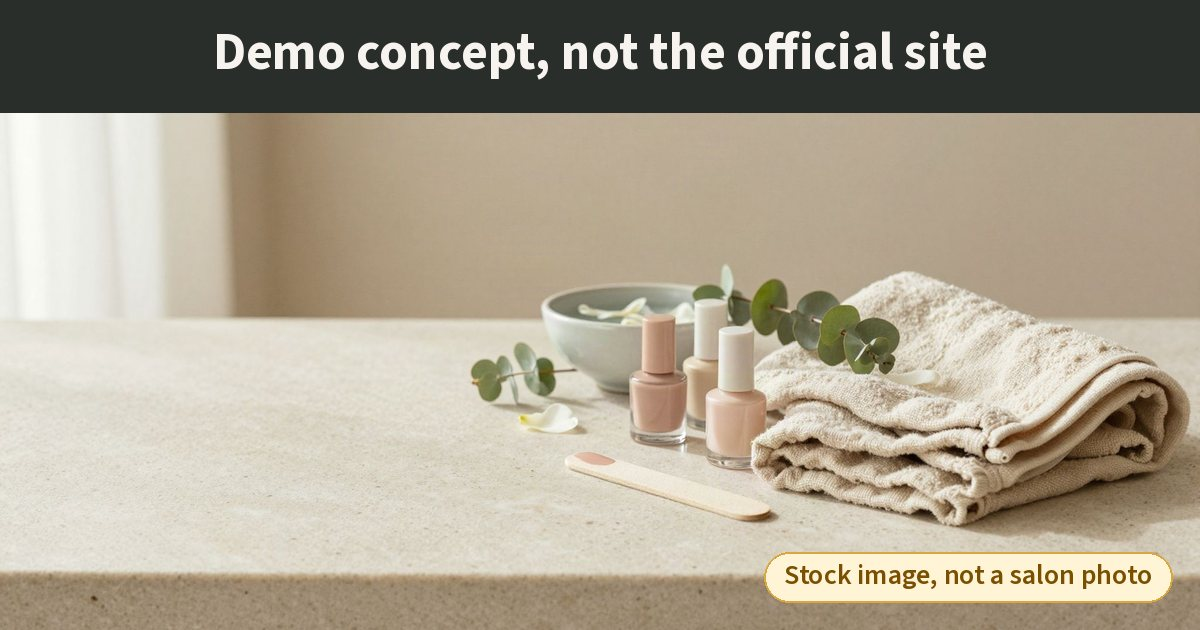
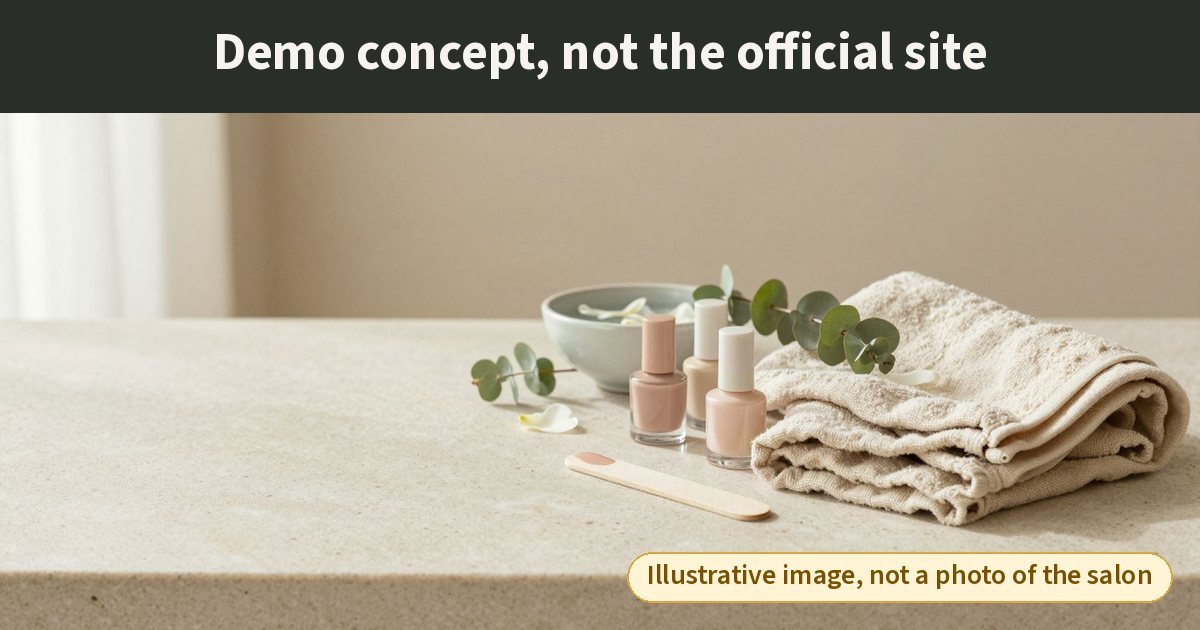
Label demo images as illustrative

Changed region(s): [[0.5242, 0.8746, 0.9558, 0.9651]]

diff --git a/about.html b/about.html
@@ -15,17 +15,17 @@
   <meta property="og:image:type" content="image/jpeg">
   <meta property="og:image:width" content="1200">
   <meta property="og:image:height" content="630">
-  <meta property="og:image:alt" content="Demo concept, not the official site. Nude nail polish bottles, eucalyptus and a soft folded towel on a stone counter (stock image, not a salon photo)">
+  <meta property="og:image:alt" content="Demo concept, not the official site. Nude nail polish bottles, eucalyptus and a soft folded towel on a stone counter (illustrative image, not a photo of the salon)">
   <meta name="twitter:card" content="summary_large_image">
   <meta name="twitter:title" content="About | 9 Natural Nails &amp; Spa Mississauga (demo concept)">
   <meta name="twitter:description" content="Demo concept website for 9 Natural Nails &amp; Spa, a nail salon and spa in Creditview, Mississauga — not the official site. About the salon.">
   <meta name="twitter:image" content="https://mikelagumbay22.github.io/9-natural-nails-demo/img/og-image.jpg">
-  <meta name="twitter:image:alt" content="Demo concept, not the official site. Nude nail polish bottles, eucalyptus and a soft folded towel on a stone counter (stock image, not a salon photo)">
+  <meta name="twitter:image:alt" content="Demo concept, not the official site. Nude nail polish bottles, eucalyptus and a soft folded towel on a stone counter (illustrative image, not a photo of the salon)">
   <meta name="robots" content="noindex, nofollow">
   <meta name="theme-color" content="#F7F3EE">
   <link rel="preload" href="fonts/cormorant-normal-500-600-latin.woff2" as="font" type="font/woff2" crossorigin>
   <link rel="preload" href="fonts/jost-normal-400-500-latin.woff2" as="font" type="font/woff2" crossorigin>
-  <link rel="stylesheet" href="css/site.css?v=c59a44cd">
+  <link rel="stylesheet" href="css/site.css?v=3cecc770">
   <link rel="icon" type="image/svg+xml" href="img/logo-existing-refresh-mark.svg">
   <link rel="icon" href="img/favicon-existing-refresh.ico" sizes="any">
   <link rel="apple-touch-icon" href="img/apple-touch-icon-existing-refresh.png">
@@ -79,7 +79,7 @@
 <section class="page-hero section" aria-labelledby="about-title">
   <div class="container about-grid">
     <div class="about-media">
-      <div class="media "><span class="ph-badge stock-badge">Stock image · not a salon photo</span>
+      <div class="media "><span class="ph-badge image-badge">Illustrative image, not a photo of the salon</span>
   <img src="img/interior-800.webp" srcset="img/interior-480.webp 480w, img/interior-800.webp 800w, img/interior-1200.webp 1200w, img/interior-1600.webp 1600w" sizes="(min-width: 900px) 540px, 92vw" width="1600" height="1200" alt="Calm, minimalist manicure station with a sage accent wall and shelves of nail polish" fetchpriority="high" decoding="async">
 </div>
     </div>
@@ -98,13 +98,13 @@
   <div class="container">
     <div class="section-head section-head--center">
       <p class="eyebrow">A calm space</p>
-      <h2 id="about-strip-title">Natural care, beautifully done.</h2><p class="sample-note">Stock mood images for this demo — not photos of the salon.</p>
+      <h2 id="about-strip-title">Natural care, beautifully done.</h2><p class="sample-note">Illustrative mood images for this demo — not photos of the salon.</p>
     </div>
     <ul class="gallery gallery--strip">
-      <li><div class="media "><span class="ph-badge stock-badge">Stock image · not a salon photo</span>
+      <li><div class="media "><span class="ph-badge image-badge">Illustrative image, not a photo of the salon</span>
   <img src="img/manicure-800.webp" srcset="img/manicure-480.webp 480w, img/manicure-800.webp 800w, img/manicure-1200.webp 1200w, img/manicure-1600.webp 1600w" sizes="(min-width: 900px) 570px, (min-width: 640px) 46vw, 92vw" width="1600" height="1200" alt="Close-up of a hand with a fresh natural-nude manicure resting on a linen towel" loading="lazy" decoding="async">
 </div></li>
-      <li><div class="media "><span class="ph-badge stock-badge">Stock image · not a salon photo</span>
+      <li><div class="media "><span class="ph-badge image-badge">Illustrative image, not a photo of the salon</span>
   <img src="img/spa-800.webp" srcset="img/spa-480.webp 480w, img/spa-800.webp 800w, img/spa-1200.webp 1200w, img/spa-1600.webp 1600w" sizes="(min-width: 900px) 570px, (min-width: 640px) 46vw, 92vw" width="1600" height="1200" alt="Pedicure foot soak with rose petals and lemon slices beside sage-green towels" loading="lazy" decoding="async">
 </div></li>
     </ul>
@@ -148,6 +148,6 @@
   <a class="btn btn--primary" href="tel:+19052902335" aria-label="Call (905) 290-2335"><svg viewBox="0 0 24 24" fill="none" stroke="currentColor" stroke-width="1.8" stroke-linecap="round" stroke-linejoin="round" aria-hidden="true" focusable="false"><path d="M22 16.9v3a2 2 0 0 1-2.2 2 19.8 19.8 0 0 1-8.6-3.1 19.5 19.5 0 0 1-6-6A19.8 19.8 0 0 1 2.1 4.2 2 2 0 0 1 4.1 2h3a2 2 0 0 1 2 1.7c.1 1 .4 1.9.7 2.8a2 2 0 0 1-.5 2.1L8 9.9a16 16 0 0 0 6 6l1.3-1.3a2 2 0 0 1 2.1-.4c.9.3 1.8.6 2.8.7a2 2 0 0 1 1.7 2z"/></svg>Call</a>
   <a class="btn btn--ghost" href="contact.html"><svg viewBox="0 0 24 24" fill="none" stroke="currentColor" stroke-width="1.8" stroke-linecap="round" stroke-linejoin="round" aria-hidden="true" focusable="false"><path d="M20 10c0 6-8 12-8 12S4 16 4 10a8 8 0 0 1 16 0z"/><circle cx="12" cy="10" r="3"/></svg>Visit</a>
 </nav>
-<script src="js/site.js?v=c59a44cd" defer></script>
+<script src="js/site.js?v=3cecc770" defer></script>
 </body>
 </html>

diff --git a/index.html b/index.html
@@ -15,17 +15,17 @@
   <meta property="og:image:type" content="image/jpeg">
   <meta property="og:image:width" content="1200">
   <meta property="og:image:height" content="630">
-  <meta property="og:image:alt" content="Demo concept, not the official site. Nude nail polish bottles, eucalyptus and a soft folded towel on a stone counter (stock image, not a salon photo)">
+  <meta property="og:image:alt" content="Demo concept, not the official site. Nude nail polish bottles, eucalyptus and a soft folded towel on a stone counter (illustrative image, not a photo of the salon)">
   <meta name="twitter:card" content="summary_large_image">
   <meta name="twitter:title" content="9 Natural Nails &amp; Spa | Nail Salon Mississauga, Creditview (demo concept)">
   <meta name="twitter:description" content="Demo concept website for 9 Natural Nails &amp; Spa, a nail salon and spa in Creditview, Mississauga — not the official site. Nail and spa care, open 7 days.">
   <meta name="twitter:image" content="https://mikelagumbay22.github.io/9-natural-nails-demo/img/og-image.jpg">
-  <meta name="twitter:image:alt" content="Demo concept, not the official site. Nude nail polish bottles, eucalyptus and a soft folded towel on a stone counter (stock image, not a salon photo)">
+  <meta name="twitter:image:alt" content="Demo concept, not the official site. Nude nail polish bottles, eucalyptus and a soft folded towel on a stone counter (illustrative image, not a photo of the salon)">
   <meta name="robots" content="noindex, nofollow">
   <meta name="theme-color" content="#F7F3EE">
   <link rel="preload" href="fonts/cormorant-normal-500-600-latin.woff2" as="font" type="font/woff2" crossorigin>
   <link rel="preload" href="fonts/jost-normal-400-500-latin.woff2" as="font" type="font/woff2" crossorigin>
-  <link rel="stylesheet" href="css/site.css?v=c59a44cd">
+  <link rel="stylesheet" href="css/site.css?v=3cecc770">
   <link rel="icon" type="image/svg+xml" href="img/logo-existing-refresh-mark.svg">
   <link rel="icon" href="img/favicon-existing-refresh.ico" sizes="any">
   <link rel="apple-touch-icon" href="img/apple-touch-icon-existing-refresh.png">
@@ -90,7 +90,7 @@
       <p class="rating-chip"><span class="stars" aria-hidden="true">★★★★★</span><span>4.8 stars from 792 Google reviews</span></p>
     </div>
     <div class="hero-media">
-      <div class="media media--hero" style="--focus: 72% 50%"><span class="ph-badge stock-badge">Stock image · not a salon photo</span>
+      <div class="media media--hero" style="--focus: 72% 50%"><span class="ph-badge image-badge">Illustrative image, not a photo of the salon</span>
   <img src="img/hero-800.webp" srcset="img/hero-480.webp 480w, img/hero-800.webp 800w, img/hero-1200.webp 1200w, img/hero-1600.webp 1600w" sizes="(min-width: 900px) 480px, 92vw" width="2048" height="1152" alt="Nude nail polish bottles, eucalyptus and a soft folded towel on a stone counter" fetchpriority="high" decoding="async">
 </div>
       <p class="hero-badge"><svg viewBox="0 0 24 24" fill="none" stroke="currentColor" stroke-width="1.8" stroke-linecap="round" stroke-linejoin="round" aria-hidden="true" focusable="false"><circle cx="12" cy="12" r="9"/><path d="M12 7v5l3 2"/></svg><span><strong>Open 7 days</strong>Weekdays until 8 p.m.</span></p>
@@ -115,7 +115,7 @@
       <a class="text-link" href="about.html">More about us<svg viewBox="0 0 24 24" fill="none" stroke="currentColor" stroke-width="1.8" stroke-linecap="round" stroke-linejoin="round" aria-hidden="true" focusable="false"><path d="M5 12h14M13 6l6 6-6 6"/></svg></a>
     </div>
     <div class="teaser-media">
-      <div class="media "><span class="ph-badge stock-badge">Stock image · not a salon photo</span>
+      <div class="media "><span class="ph-badge image-badge">Illustrative image, not a photo of the salon</span>
   <img src="img/interior-800.webp" srcset="img/interior-480.webp 480w, img/interior-800.webp 800w, img/interior-1200.webp 1200w, img/interior-1600.webp 1600w" sizes="(min-width: 900px) 480px, 92vw" width="1600" height="1200" alt="Calm, minimalist manicure station with a sage accent wall and shelves of nail polish" loading="lazy" decoding="async">
 </div>
     </div>
@@ -242,6 +242,6 @@
   <a class="btn btn--primary" href="tel:+19052902335" aria-label="Call (905) 290-2335"><svg viewBox="0 0 24 24" fill="none" stroke="currentColor" stroke-width="1.8" stroke-linecap="round" stroke-linejoin="round" aria-hidden="true" focusable="false"><path d="M22 16.9v3a2 2 0 0 1-2.2 2 19.8 19.8 0 0 1-8.6-3.1 19.5 19.5 0 0 1-6-6A19.8 19.8 0 0 1 2.1 4.2 2 2 0 0 1 4.1 2h3a2 2 0 0 1 2 1.7c.1 1 .4 1.9.7 2.8a2 2 0 0 1-.5 2.1L8 9.9a16 16 0 0 0 6 6l1.3-1.3a2 2 0 0 1 2.1-.4c.9.3 1.8.6 2.8.7a2 2 0 0 1 1.7 2z"/></svg>Call</a>
   <a class="btn btn--ghost" href="contact.html"><svg viewBox="0 0 24 24" fill="none" stroke="currentColor" stroke-width="1.8" stroke-linecap="round" stroke-linejoin="round" aria-hidden="true" focusable="false"><path d="M20 10c0 6-8 12-8 12S4 16 4 10a8 8 0 0 1 16 0z"/><circle cx="12" cy="10" r="3"/></svg>Visit</a>
 </nav>
-<script src="js/site.js?v=c59a44cd" defer></script>
+<script src="js/site.js?v=3cecc770" defer></script>
 </body>
 </html>

diff --git a/services.html b/services.html
@@ -15,17 +15,17 @@
   <meta property="og:image:type" content="image/jpeg">
   <meta property="og:image:width" content="1200">
   <meta property="og:image:height" content="630">
-  <meta property="og:image:alt" content="Demo concept, not the official site. Nude nail polish bottles, eucalyptus and a soft folded towel on a stone counter (stock image, not a salon photo)">
+  <meta property="og:image:alt" content="Demo concept, not the official site. Nude nail polish bottles, eucalyptus and a soft folded towel on a stone counter (illustrative image, not a photo of the salon)">
   <meta name="twitter:card" content="summary_large_image">
   <meta name="twitter:title" content="Services | 9 Natural Nails &amp; Spa Mississauga (demo concept)">
   <meta name="twitter:description" content="Demo concept website for 9 Natural Nails &amp; Spa, a nail salon and spa in Creditview, Mississauga — not the official site. Sample service menu.">
   <meta name="twitter:image" content="https://mikelagumbay22.github.io/9-natural-nails-demo/img/og-image.jpg">
-  <meta name="twitter:image:alt" content="Demo concept, not the official site. Nude nail polish bottles, eucalyptus and a soft folded towel on a stone counter (stock image, not a salon photo)">
+  <meta name="twitter:image:alt" content="Demo concept, not the official site. Nude nail polish bottles, eucalyptus and a soft folded towel on a stone counter (illustrative image, not a photo of the salon)">
   <meta name="robots" content="noindex, nofollow">
   <meta name="theme-color" content="#F7F3EE">
   <link rel="preload" href="fonts/cormorant-normal-500-600-latin.woff2" as="font" type="font/woff2" crossorigin>
   <link rel="preload" href="fonts/jost-normal-400-500-latin.woff2" as="font" type="font/woff2" crossorigin>
-  <link rel="stylesheet" href="css/site.css?v=c59a44cd">
+  <link rel="stylesheet" href="css/site.css?v=3cecc770">
   <link rel="icon" type="image/svg+xml" href="img/logo-existing-refresh-mark.svg">
   <link rel="icon" href="img/favicon-existing-refresh.ico" sizes="any">
   <link rel="apple-touch-icon" href="img/apple-touch-icon-existing-refresh.png">
@@ -121,13 +121,13 @@
       <h2 id="gallery-title">Natural care, beautifully done.</h2>
     </div>
     <ul class="gallery">
-      <li><div class="media "><span class="ph-badge stock-badge">Stock image · not a salon photo</span>
+      <li><div class="media "><span class="ph-badge image-badge">Illustrative image, not a photo of the salon</span>
   <img src="img/manicure-800.webp" srcset="img/manicure-480.webp 480w, img/manicure-800.webp 800w, img/manicure-1200.webp 1200w, img/manicure-1600.webp 1600w" sizes="(min-width: 900px) 373px, 92vw" width="1600" height="1200" alt="Close-up of a hand with a fresh natural-nude manicure resting on a linen towel" loading="lazy" decoding="async">
 </div></li>
-      <li><div class="media "><span class="ph-badge stock-badge">Stock image · not a salon photo</span>
+      <li><div class="media "><span class="ph-badge image-badge">Illustrative image, not a photo of the salon</span>
   <img src="img/spa-800.webp" srcset="img/spa-480.webp 480w, img/spa-800.webp 800w, img/spa-1200.webp 1200w, img/spa-1600.webp 1600w" sizes="(min-width: 900px) 373px, 46vw" width="1600" height="1200" alt="Pedicure foot soak with rose petals and lemon slices beside sage-green towels" loading="lazy" decoding="async">
 </div></li>
-      <li><div class="media "><span class="ph-badge stock-badge">Stock image · not a salon photo</span>
+      <li><div class="media "><span class="ph-badge image-badge">Illustrative image, not a photo of the salon</span>
   <img src="img/polish-800.webp" srcset="img/polish-480.webp 480w, img/polish-800.webp 800w, img/polish-1200.webp 1200w, img/polish-1600.webp 1600w" sizes="(min-width: 900px) 373px, 46vw" width="1600" height="1200" alt="Flat-lay of nail polish bottles in blush, nude, sage and white with a nail file" loading="lazy" decoding="async">
 </div></li>
     </ul>
@@ -181,6 +181,6 @@
   <a class="btn btn--primary" href="tel:+19052902335" aria-label="Call (905) 290-2335"><svg viewBox="0 0 24 24" fill="none" stroke="currentColor" stroke-width="1.8" stroke-linecap="round" stroke-linejoin="round" aria-hidden="true" focusable="false"><path d="M22 16.9v3a2 2 0 0 1-2.2 2 19.8 19.8 0 0 1-8.6-3.1 19.5 19.5 0 0 1-6-6A19.8 19.8 0 0 1 2.1 4.2 2 2 0 0 1 4.1 2h3a2 2 0 0 1 2 1.7c.1 1 .4 1.9.7 2.8a2 2 0 0 1-.5 2.1L8 9.9a16 16 0 0 0 6 6l1.3-1.3a2 2 0 0 1 2.1-.4c.9.3 1.8.6 2.8.7a2 2 0 0 1 1.7 2z"/></svg>Call</a>
   <a class="btn btn--ghost" href="contact.html"><svg viewBox="0 0 24 24" fill="none" stroke="currentColor" stroke-width="1.8" stroke-linecap="round" stroke-linejoin="round" aria-hidden="true" focusable="false"><path d="M20 10c0 6-8 12-8 12S4 16 4 10a8 8 0 0 1 16 0z"/><circle cx="12" cy="10" r="3"/></svg>Visit</a>
 </nav>
-<script src="js/site.js?v=c59a44cd" defer></script>
+<script src="js/site.js?v=3cecc770" defer></script>
 </body>
 </html>

diff --git a/contact.html b/contact.html
@@ -15,17 +15,17 @@
   <meta property="og:image:type" content="image/jpeg">
   <meta property="og:image:width" content="1200">
   <meta property="og:image:height" content="630">
-  <meta property="og:image:alt" content="Demo concept, not the official site. Nude nail polish bottles, eucalyptus and a soft folded towel on a stone counter (stock image, not a salon photo)">
+  <meta property="og:image:alt" content="Demo concept, not the official site. Nude nail polish bottles, eucalyptus and a soft folded towel on a stone counter (illustrative image, not a photo of the salon)">
   <meta name="twitter:card" content="summary_large_image">
   <meta name="twitter:title" content="Contact &amp; Hours | 9 Natural Nails &amp; Spa Mississauga (demo concept)">
   <meta name="twitter:description" content="Demo concept website for 9 Natural Nails &amp; Spa, a nail salon and spa in Creditview, Mississauga — not the official site. Hours, map and contact details.">
   <meta name="twitter:image" content="https://mikelagumbay22.github.io/9-natural-nails-demo/img/og-image.jpg">
-  <meta name="twitter:image:alt" content="Demo concept, not the official site. Nude nail polish bottles, eucalyptus and a soft folded towel on a stone counter (stock image, not a salon photo)">
+  <meta name="twitter:image:alt" content="Demo concept, not the official site. Nude nail polish bottles, eucalyptus and a soft folded towel on a stone counter (illustrative image, not a photo of the salon)">
   <meta name="robots" content="noindex, nofollow">
   <meta name="theme-color" content="#F7F3EE">
   <link rel="preload" href="fonts/cormorant-normal-500-600-latin.woff2" as="font" type="font/woff2" crossorigin>
   <link rel="preload" href="fonts/jost-normal-400-500-latin.woff2" as="font" type="font/woff2" crossorigin>
-  <link rel="stylesheet" href="css/site.css?v=c59a44cd">
+  <link rel="stylesheet" href="css/site.css?v=3cecc770">
   <link rel="icon" type="image/svg+xml" href="img/logo-existing-refresh-mark.svg">
   <link rel="icon" href="img/favicon-existing-refresh.ico" sizes="any">
   <link rel="apple-touch-icon" href="img/apple-touch-icon-existing-refresh.png">
@@ -170,6 +170,6 @@
   <a class="btn btn--primary" href="tel:+19052902335" aria-label="Call (905) 290-2335"><svg viewBox="0 0 24 24" fill="none" stroke="currentColor" stroke-width="1.8" stroke-linecap="round" stroke-linejoin="round" aria-hidden="true" focusable="false"><path d="M22 16.9v3a2 2 0 0 1-2.2 2 19.8 19.8 0 0 1-8.6-3.1 19.5 19.5 0 0 1-6-6A19.8 19.8 0 0 1 2.1 4.2 2 2 0 0 1 4.1 2h3a2 2 0 0 1 2 1.7c.1 1 .4 1.9.7 2.8a2 2 0 0 1-.5 2.1L8 9.9a16 16 0 0 0 6 6l1.3-1.3a2 2 0 0 1 2.1-.4c.9.3 1.8.6 2.8.7a2 2 0 0 1 1.7 2z"/></svg>Call</a>
   <a class="btn btn--ghost" href="contact.html"><svg viewBox="0 0 24 24" fill="none" stroke="currentColor" stroke-width="1.8" stroke-linecap="round" stroke-linejoin="round" aria-hidden="true" focusable="false"><path d="M20 10c0 6-8 12-8 12S4 16 4 10a8 8 0 0 1 16 0z"/><circle cx="12" cy="10" r="3"/></svg>Visit</a>
 </nav>
-<script src="js/site.js?v=c59a44cd" defer></script>
+<script src="js/site.js?v=3cecc770" defer></script>
 </body>
 </html>

diff --git a/reviews.html b/reviews.html
@@ -15,17 +15,17 @@
   <meta property="og:image:type" content="image/jpeg">
   <meta property="og:image:width" content="1200">
   <meta property="og:image:height" content="630">
-  <meta property="og:image:alt" content="Demo concept, not the official site. Nude nail polish bottles, eucalyptus and a soft folded towel on a stone counter (stock image, not a salon photo)">
+  <meta property="og:image:alt" content="Demo concept, not the official site. Nude nail polish bottles, eucalyptus and a soft folded towel on a stone counter (illustrative image, not a photo of the salon)">
   <meta name="twitter:card" content="summary_large_image">
   <meta name="twitter:title" content="Reviews | 9 Natural Nails &amp; Spa Mississauga (demo concept)">
   <meta name="twitter:description" content="Demo concept website for 9 Natural Nails &amp; Spa, a nail salon and spa in Creditview, Mississauga — not the official site. What clients say.">
   <meta name="twitter:image" content="https://mikelagumbay22.github.io/9-natural-nails-demo/img/og-image.jpg">
-  <meta name="twitter:image:alt" content="Demo concept, not the official site. Nude nail polish bottles, eucalyptus and a soft folded towel on a stone counter (stock image, not a salon photo)">
+  <meta name="twitter:image:alt" content="Demo concept, not the official site. Nude nail polish bottles, eucalyptus and a soft folded towel on a stone counter (illustrative image, not a photo of the salon)">
   <meta name="robots" content="noindex, nofollow">
   <meta name="theme-color" content="#F7F3EE">
   <link rel="preload" href="fonts/cormorant-normal-500-600-latin.woff2" as="font" type="font/woff2" crossorigin>
   <link rel="preload" href="fonts/jost-normal-400-500-latin.woff2" as="font" type="font/woff2" crossorigin>
-  <link rel="stylesheet" href="css/site.css?v=c59a44cd">
+  <link rel="stylesheet" href="css/site.css?v=3cecc770">
   <link rel="icon" type="image/svg+xml" href="img/logo-existing-refresh-mark.svg">
   <link rel="icon" href="img/favicon-existing-refresh.ico" sizes="any">
   <link rel="apple-touch-icon" href="img/apple-touch-icon-existing-refresh.png">
@@ -161,6 +161,6 @@
   <a class="btn btn--primary" href="tel:+19052902335" aria-label="Call (905) 290-2335"><svg viewBox="0 0 24 24" fill="none" stroke="currentColor" stroke-width="1.8" stroke-linecap="round" stroke-linejoin="round" aria-hidden="true" focusable="false"><path d="M22 16.9v3a2 2 0 0 1-2.2 2 19.8 19.8 0 0 1-8.6-3.1 19.5 19.5 0 0 1-6-6A19.8 19.8 0 0 1 2.1 4.2 2 2 0 0 1 4.1 2h3a2 2 0 0 1 2 1.7c.1 1 .4 1.9.7 2.8a2 2 0 0 1-.5 2.1L8 9.9a16 16 0 0 0 6 6l1.3-1.3a2 2 0 0 1 2.1-.4c.9.3 1.8.6 2.8.7a2 2 0 0 1 1.7 2z"/></svg>Call</a>
   <a class="btn btn--ghost" href="contact.html"><svg viewBox="0 0 24 24" fill="none" stroke="currentColor" stroke-width="1.8" stroke-linecap="round" stroke-linejoin="round" aria-hidden="true" focusable="false"><path d="M20 10c0 6-8 12-8 12S4 16 4 10a8 8 0 0 1 16 0z"/><circle cx="12" cy="10" r="3"/></svg>Visit</a>
 </nav>
-<script src="js/site.js?v=c59a44cd" defer></script>
+<script src="js/site.js?v=3cecc770" defer></script>
 </body>
 </html>

diff --git a/css/site.css b/css/site.css
@@ -98,7 +98,7 @@ p { margin: 0 0 1em; }
 }
 .eyebrow::before { content: ""; width: 1.75rem; height: 1px; background: var(--color-accent); }
 .media img { object-position: var(--focus, 50% 50%); }
-.media .stock-badge { position: absolute; right: .9rem; bottom: .9rem; z-index: 2; margin: 0; }
+.media .image-badge { position: absolute; right: .9rem; bottom: .9rem; z-index: 2; margin: 0; }
 .lead { font-size: 1.15rem; color: var(--color-text-muted); }
 .muted { color: var(--color-text-muted); }
 
@@ -417,7 +417,7 @@ a[href^="tel:"] { white-space: nowrap; }
   overflow-wrap: anywhere; text-wrap: balance;
 }
 
-.hero-media .media .stock-badge { top: .9rem; bottom: auto; right: .9rem; }
+.hero-media .media .image-badge { top: .9rem; bottom: auto; right: .9rem; }
 
 .visit-split { display: grid; gap: 2.5rem; align-items: center; }
 .map-card {
